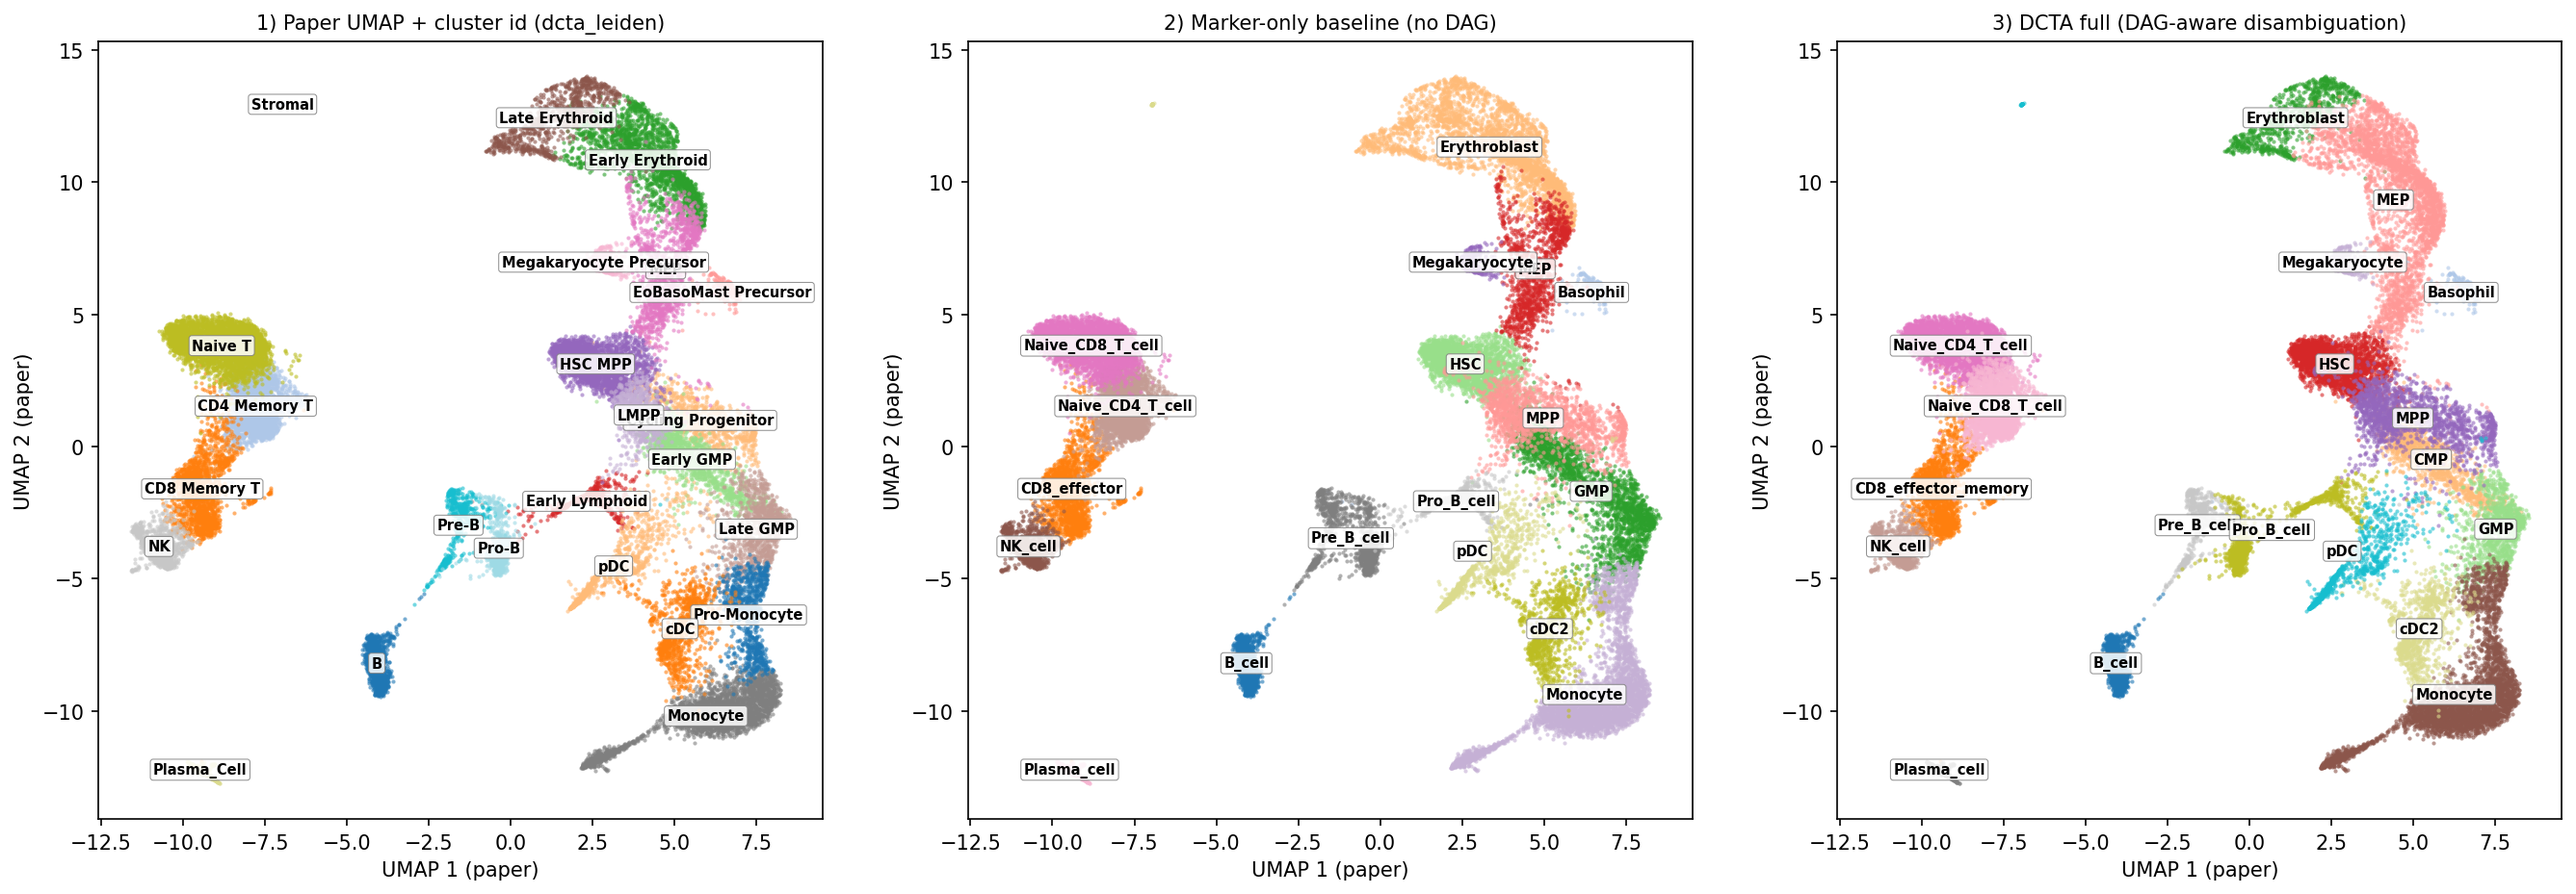
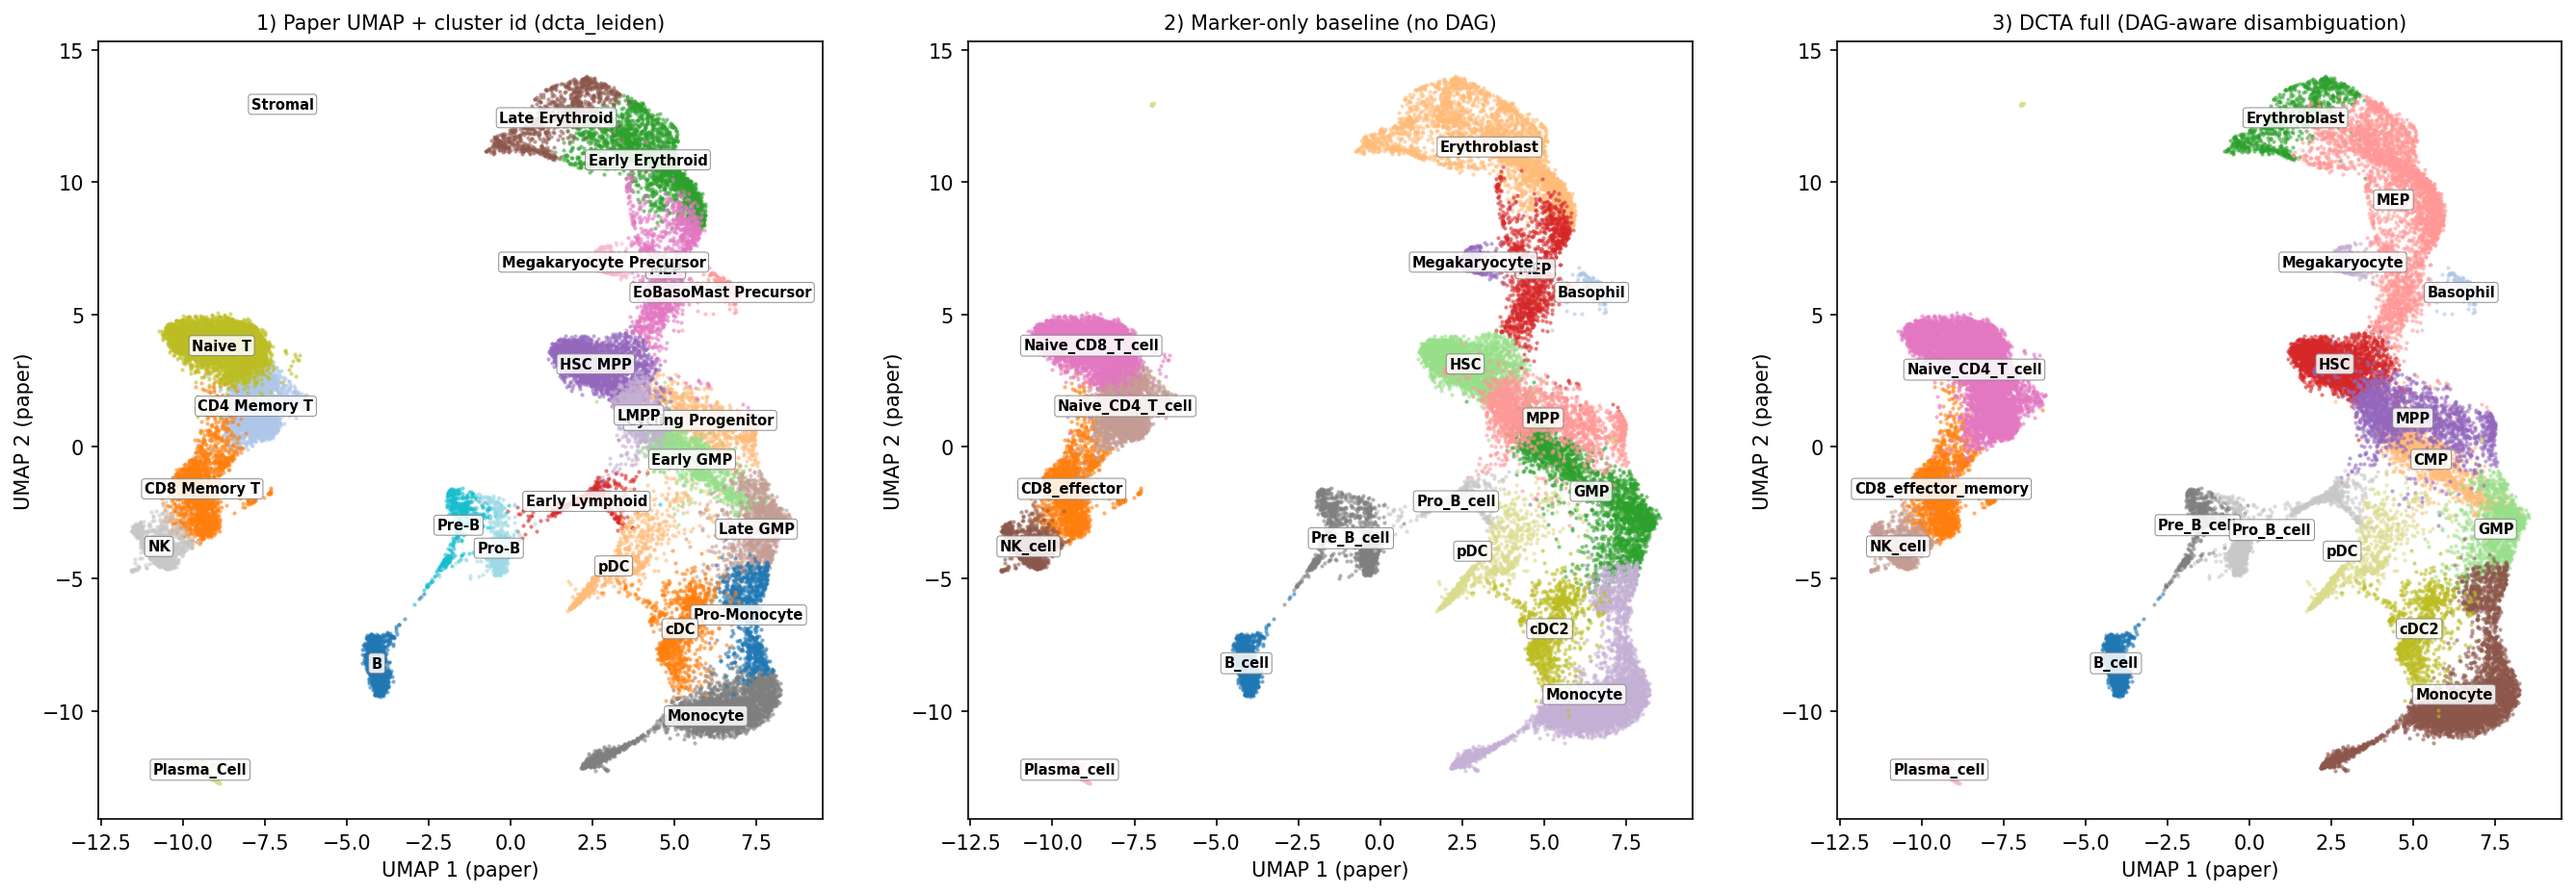
Phase 2.9 Option B: add SP (Single Positive) thymic stages + nTreg path
DAG additions (dag_prior_t_maturation.yaml):
  New nodes: CD4_SP, CD8_SP, Treg_thymic
  Edges:
    DP -> CD4_SP -> Naive_CD4_T_cell
    DP -> CD8_SP -> Naive_CD8_T_cell
    DP -> Treg_thymic                  (natural Treg path, separate from
                                        peripheral iTreg path Naive_CD4 -> Treg)
    DP -> NKT_cell                     (CD1d-lipid selection)
    DN -> T_gd                         (gamma-delta branch at DN)
  Total: 26 nodes, 25 edges (was 23 nodes, 22 edges).

Marker panels (lineage_mature_markers.yaml) — literature-only:
  CD4_SP:
    CD4, CD3D, CD3E, ZBTB7B (ThPOK), GATA3, TCF7, LEF1, CCR7
    (Refs: He 2005 Immunity; Ellmeier 2013 NRI; Hosoya 2009 JEM;
           Willinger 2006 J Immunol; Ueno 2004 Immunity)
  CD8_SP:
    CD8A, CD8B, CD3D, CD3E, RUNX3, EOMES, TCF7, LEF1, CCR7
    (Refs: Egawa & Littman 2008 Nat Immunol; Setoguchi 2008 Science;
           Pearce 2003 Science)
  Treg_thymic (nTreg):
    FOXP3, IL2RA, CTLA4, IKZF2 (Helios), TNFRSF18 (GITR), CD4, CD3D, CD3E
    (Refs: Sakaguchi 2008 Cell; Thornton 2010 J Immunol — Helios as
           nTreg discriminator; Mahmud 2014 J Immunol)

Algorithm fix (dcta/prior.py): extended stage guard to parent-child
LCA case. When marker-best is mature/terminal but the parent in
G_prior is premature (e.g. Naive_CD4_T_cell vs CD4_SP), keep the
mature best instead of upshifting to the thymic parent. This handles
the new case where adding SP nodes introduced a premature direct
[…]

Changed region(s): [[0.8381, 0.5307, 0.9622, 0.7804], [0.7139, 0.3746, 0.807, 0.4995]]

diff --git a/dcta/prior.py b/dcta/prior.py
@@ -307,7 +307,13 @@ def map_clusters_to_prior(
                 lca = _lca_in_dag(g_prior, best_label, runner_label,
                                   max_lca_hops=max_lca_hops)
                 if lca is not None and lca not in (best_label, runner_label):
-                    if _is_progenitor(g_prior, lca):
+                    lca_stage = node_stage.get(lca, "")
+                    if (best_stage in ("mature", "terminal")
+                            and lca_stage == "premature"):
+                        chosen = best_label
+                        reason = (f"LCA ({lca}) is premature but best is "
+                                  f"mature/terminal; keep best")
+                    elif _is_progenitor(g_prior, lca):
                         chosen = lca
                         reason = (f"LCA-progenitor ({lca}) of "
                                   f"({best_label}, {runner_label}) within "
@@ -316,9 +322,20 @@ def map_clusters_to_prior(
                         chosen = best_label
                         reason = (f"LCA ({lca}) is not progenitor; keep best")
                 elif lca in (best_label, runner_label):
-                    # One IS the parent of the other -> use the parent
-                    chosen = lca
-                    reason = (f"parent-child top-2; use parent ({lca})")
+                    # One IS the parent of the other -> use the parent,
+                    # but NOT if the parent is a premature/thymic node
+                    # while the marker-best is mature (we don't want to
+                    # drag mature peripheral cells back to SP/DP).
+                    lca_stage = node_stage.get(lca, "")
+                    if (best_stage in ("mature", "terminal")
+                            and lca_stage == "premature"
+                            and lca != best_label):
+                        chosen = best_label
+                        reason = (f"parent ({lca}) is premature; keep "
+                                  f"mature best ({best_label})")
+                    else:
+                        chosen = lca
+                        reason = (f"parent-child top-2; use parent ({lca})")
                 elif both_progenitor:
                     # Both progenitors but no close LCA -> prefer the one
                     # higher up (more in-degree-0 or fewer ancestors)
